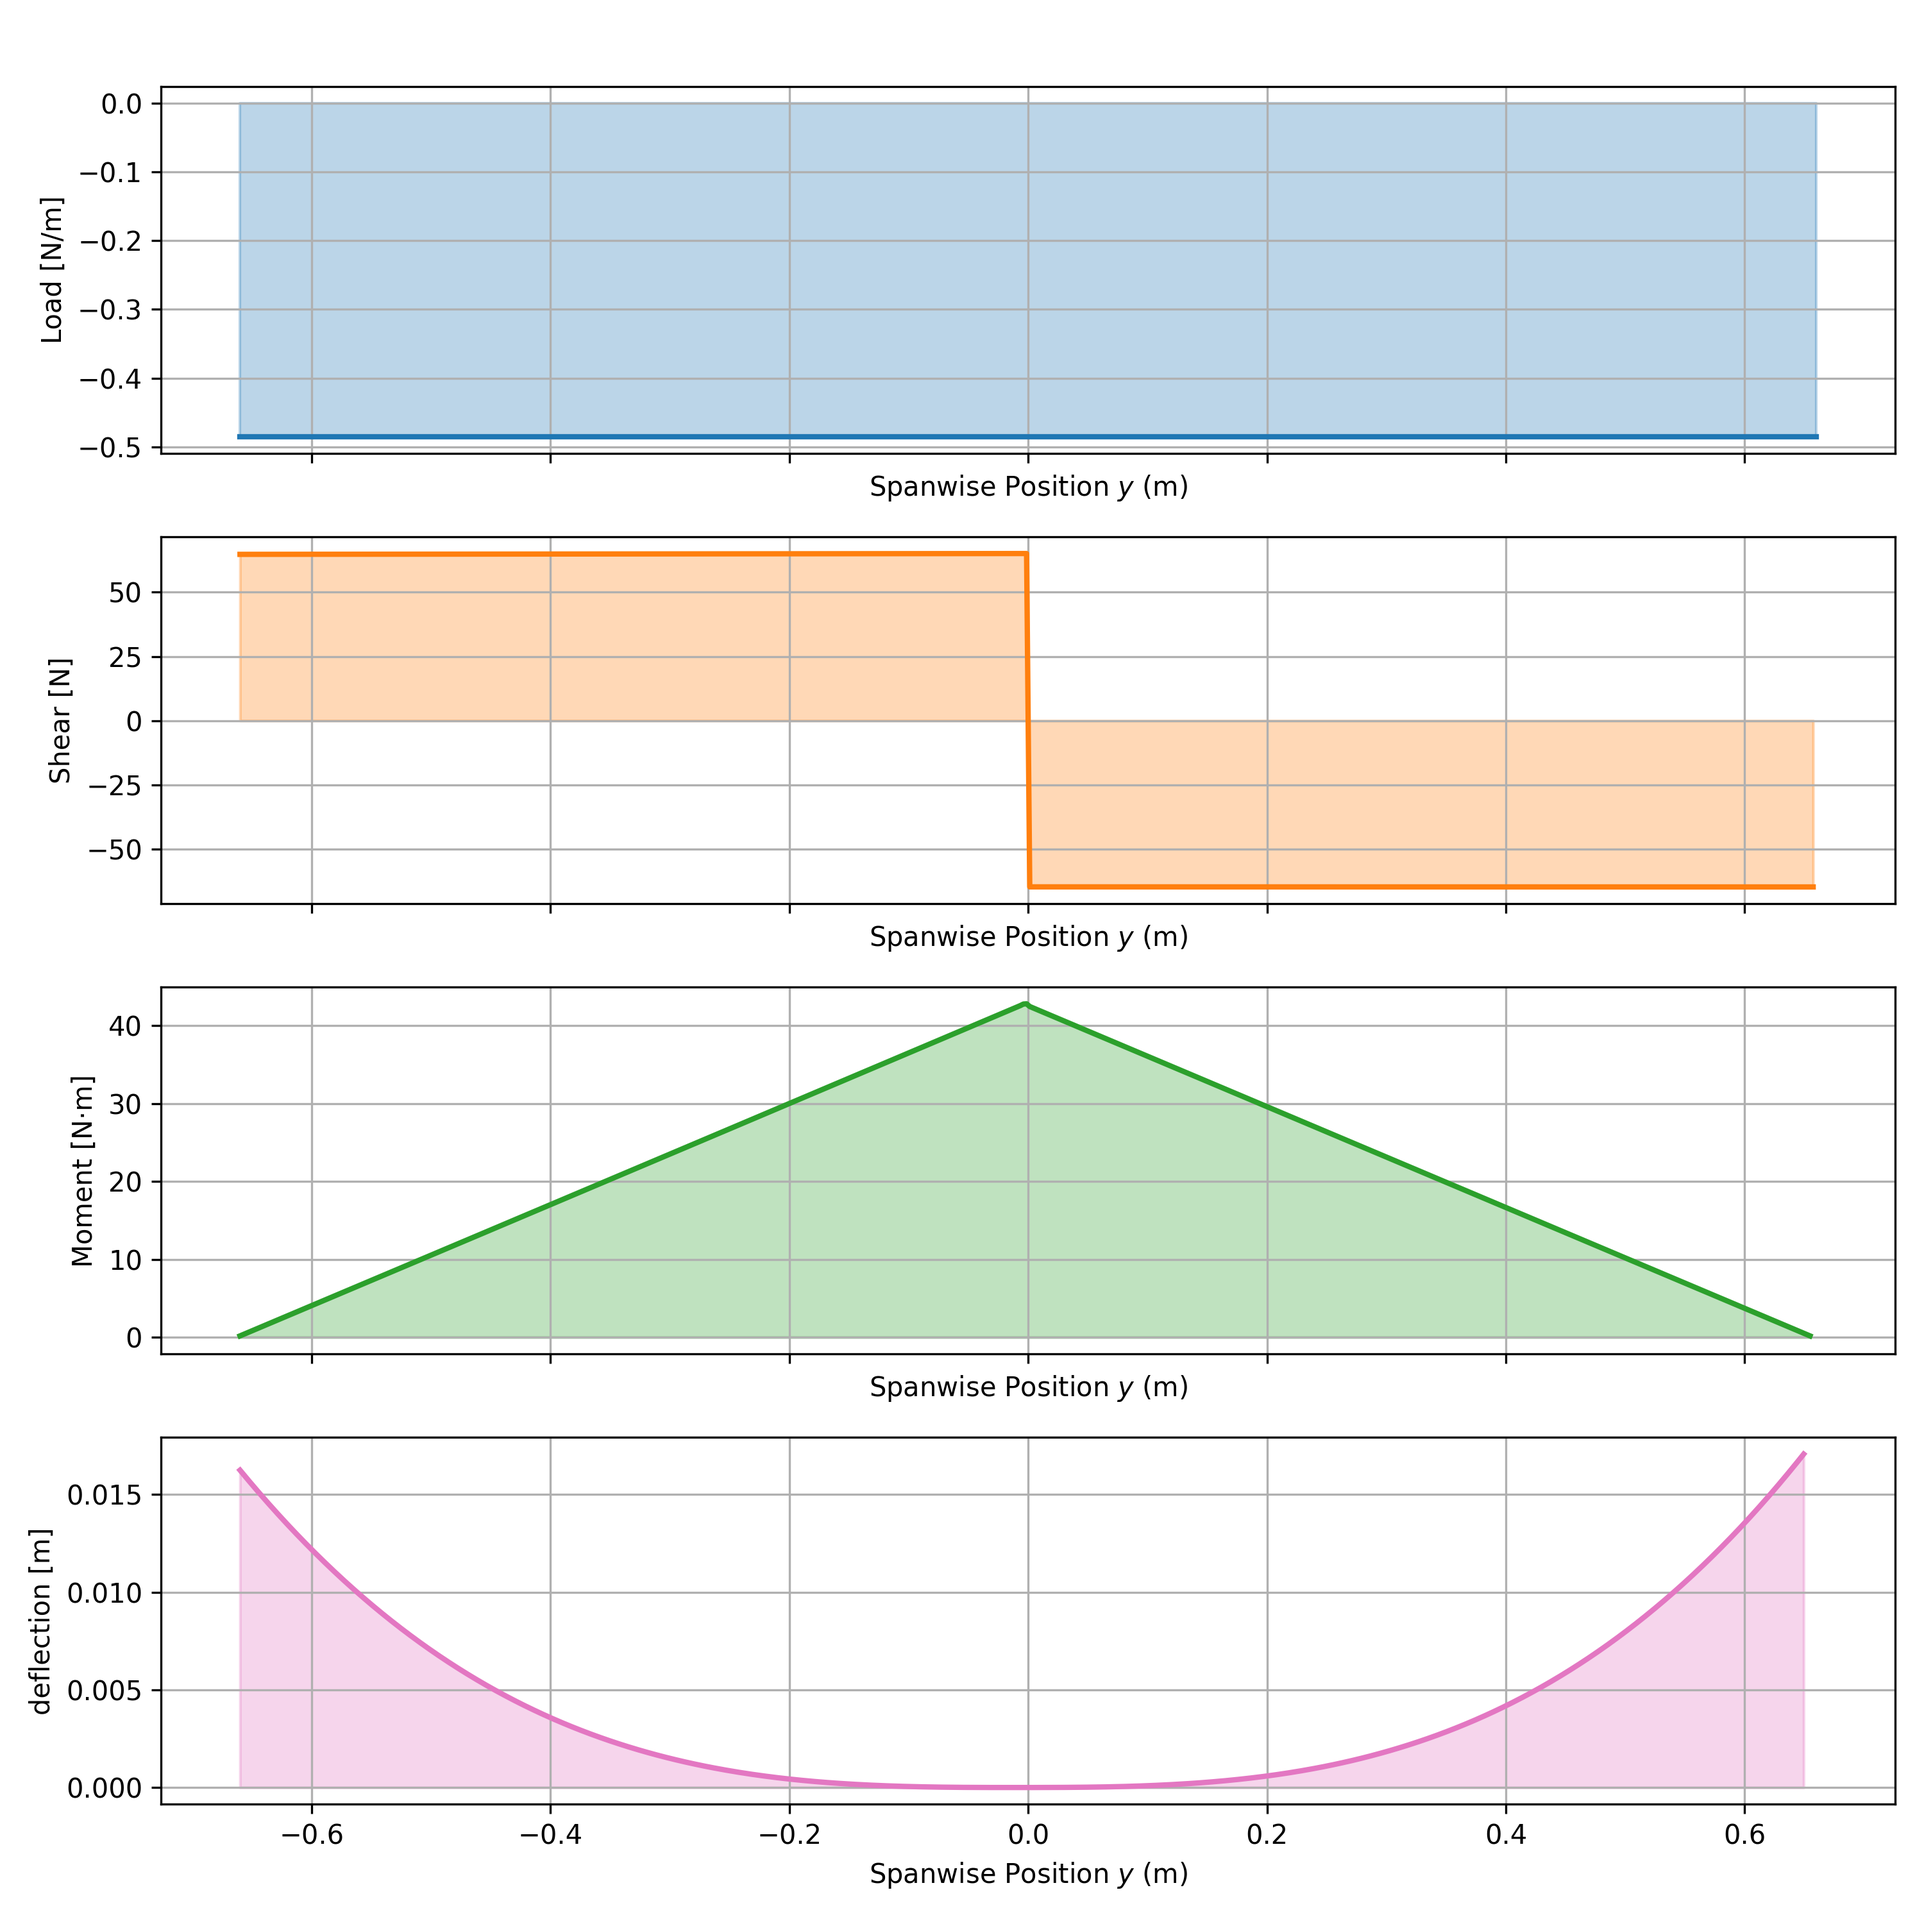
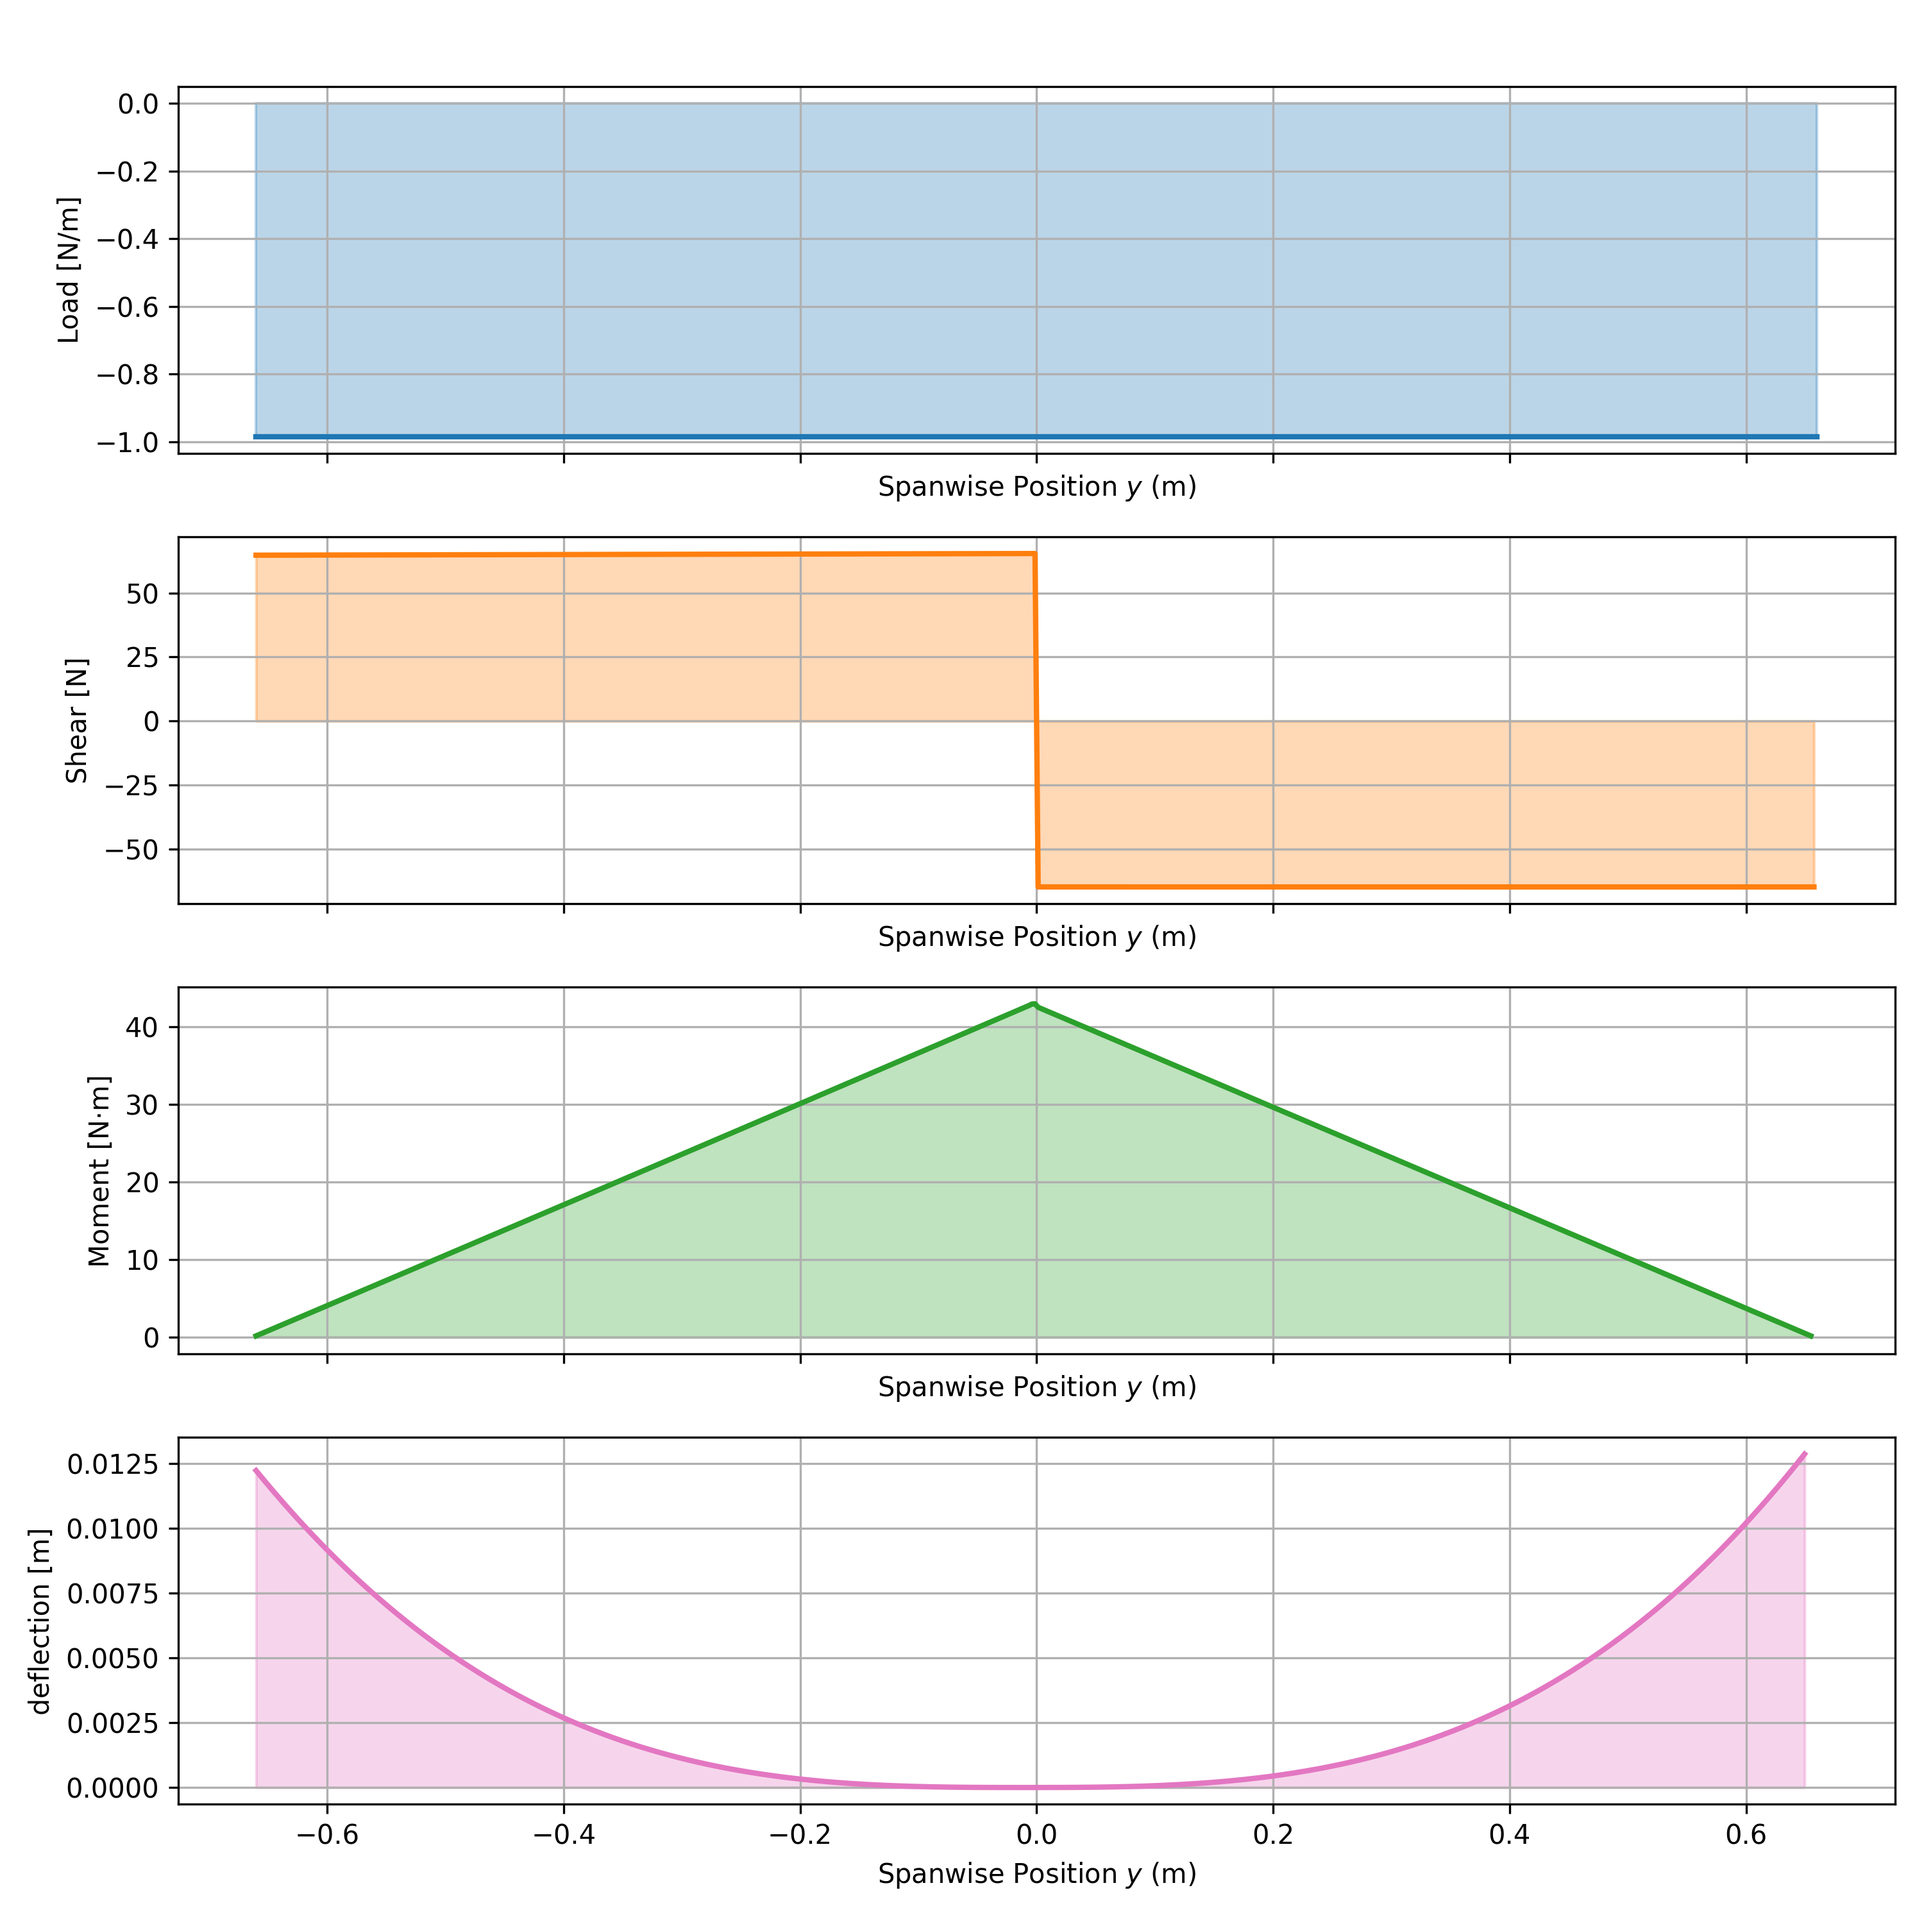
did some things

diff --git a/DetailedDesign/subsystems/structures.py b/DetailedDesign/subsystems/structures.py
@@ -76,9 +76,14 @@ class Structures:
         self.density_alu = inputs['density_alu']
         self.boom_inner_diameter = inputs['boom_inner_diameter']
 
+        self.E_glass_fibre = 21.9*10**9 #Pa
+        self.density_glass_fibre = 1840 #kg/m3
+        self.max_shear_glass_fibre = 85*10**9
+        self.max_stress_glass_fibre = 304*10**6 # best orientation
+
 
         self.VTOL_boom_thickness = self.determine_VTOL_boom_thickness()
-        self.VTOL_boom_mass = (np.pi*(self.boom_inner_diameter + self.VTOL_boom_thickness)**2 - np.pi*self.boom_inner_diameter**2)*self.VTOL_boom_length*self.density_alu
+        self.VTOL_boom_mass = (np.pi*(self.boom_inner_diameter + self.VTOL_boom_thickness)**2 - np.pi*self.boom_inner_diameter**2)*self.VTOL_boom_length*self.density_glass_fibre
 
 
                 
@@ -313,7 +318,7 @@ class Structures:
         # Distributed load from the boom weight
 
         I_circle = (np.pi / 4)* ((self.boom_inner_diameter/2+self.VTOL_boom_thickness)**4 - (self.boom_inner_diameter/2)**4)
-        boom_weight = (0.5*self.VTOL_boom_thickness)**2 * np.pi * self.VTOL_boom_length * self.density_alu *9.81
+        boom_weight = (0.5*self.VTOL_boom_thickness)**2 * np.pi * self.VTOL_boom_length * self.density_glass_fibre *9.81
         #print('boom_mass', boom_weight / 9.81)
         W_boom = np.array([boom_weight / self.VTOL_boom_length for _ in y])
 
@@ -338,13 +343,14 @@ class Structures:
 
         M = np.concatenate((-M_left[:len(y)//2], -M_rev[::-1][len(y)//2:]))
 
-        deflection_left = -(1/(self.E_alu*I_circle))* integrate.cumulative_simpson(integrate.cumulative_simpson(M_left, x=y[:-2]), x=y[:-3])
-        deflection_rev = -(1/(self.E_alu*I_circle))* integrate.cumulative_simpson(integrate.cumulative_simpson(M_rev, x=y[:-2]), x=y[:-3])
+        deflection_left = -(1/(self.E_glass_fibre*I_circle))* integrate.cumulative_simpson(integrate.cumulative_simpson(M_left, x=y[:-2]), x=y[:-3])
+        deflection_rev = -(1/(self.E_glass_fibre*I_circle))* integrate.cumulative_simpson(integrate.cumulative_simpson(M_rev, x=y[:-2]), x=y[:-3])
 
         deflection = np.concatenate((deflection_rev[::-1][len(y)//2:], deflection_left[:len(y)//2]))
 
         if size_thickness:
             return max(deflection)
+    
 
         fig, axs = plt.subplots(4, 1, figsize=(10, 10), sharex=True)
 
@@ -379,12 +385,12 @@ class Structures:
         return None
     
     def determine_VTOL_boom_thickness(self) -> float:
-        t_range = np.linspace(0.001, 0.05, 100)
+        t_range = np.linspace(0.0001, 0.05, 1000)
         for t in t_range:
             self.VTOL_boom_thickness = t
             deflection = self.NVM_propeller_boom(size_thickness=True)
             if deflection <= self.max_deflection_VTOL_boom:
-                return round(t, 4) #rounded to half a mm
+                return round(t, 5)*1.5 #rounded to half a mm, 1.5 safety factor
         return None
     
     def determine_fuselage_thickness(self) -> float:
@@ -402,14 +408,14 @@ class Structures:
         V = 2 * max(abs(V_cruise), abs(V_VTOL))
         M = 2 * max(abs(M_cruise), abs(M_VTOL))
 
-        t_V = V / (self.max_shear_titanium*np.pi*self.fuselage_diameter)
-        t_M = (8*M) / (np.pi*self.fuselage_diameter**3*self.max_stress_titanium)
+        t_V = V / (self.max_shear_glass_fibre*np.pi*self.fuselage_diameter)
+        t_M = (8*M) / (np.pi*self.fuselage_diameter**3*self.max_stress_glass_fibre)
 
         # Because of manufacturing
-        if max(t_V, t_M) >= 0.001:
+        if max(t_V, t_M) >= 0.00026:
             return max(t_V, t_M)
         else:
-            return 0.001
+            return 0.00026
         
     def sandwich(self):
 
@@ -455,8 +461,9 @@ class Structures:
 if __name__ == "__main__":  # pragma: no cover
     a = Structures(fi)
     #print(a.determine_VTOL_boom_thickness())
-    a.NVM_VTOL()
-    a.NVM_cruise()
-    a.NVM_propeller_boom()
+    # a.NVM_VTOL()
+    # a.NVM_cruise()
+    # a.NVM_propeller_boom()
     # a.sandwich()
-    print(a.mass_battery)
+    print(a.VTOL_boom_thickness)
+    print(a.determine_fuselage_thickness())

diff --git a/DetailedDesign/funny_inputs.py b/DetailedDesign/funny_inputs.py
@@ -207,7 +207,7 @@ structures_funny_inputs = {
     "E_foam": 0.123*10**9, #Pa
     "E_alu": 70.3 * 10**9, #Pa
     "density_alu": 2.68 * 1000, #kg/m3
-    "boom_inner_diameter": 0.015 #m
+    "boom_inner_diameter": 0.03 #m
 }
 
 funny_inputs.update(structures_funny_inputs)
